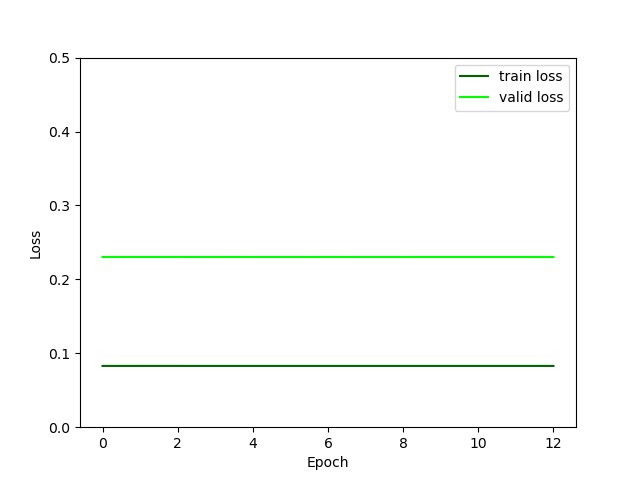
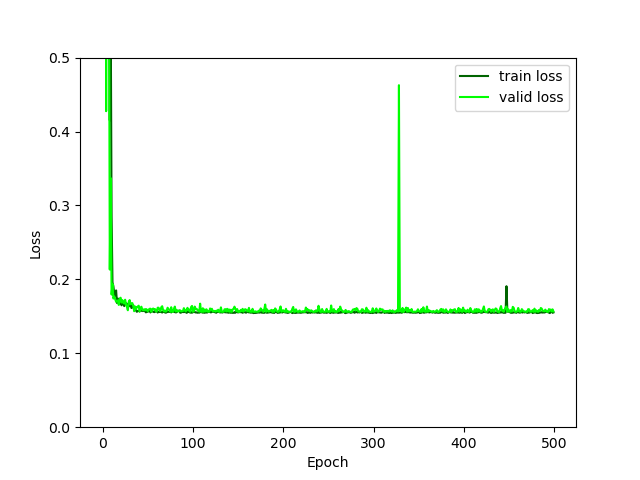
wooooorksgit add .git add .git add .

diff --git a/brainclip/model/network/brain_CLIP_model.py b/brainclip/model/network/brain_CLIP_model.py
@@ -17,7 +17,7 @@ class ImageEncoder(nn.Module):
         
         # freeze all layers except last one - Linear Probing
         for param in self.resnet3d.parameters():
-            param.requires_grad_(False)
+            param.requires_grad_(True)
         for param in self.resnet3d.fc.parameters():
             param.requires_grad_(True)   
 
@@ -137,9 +137,9 @@ class BrainCLIP(nn.Module):
         self.text_projection = ProjectionHead(
             embedding_dim=self.text_encoder.embedding_size,
             projection_dim=self.text_encoder.embedding_size)
-        #self.temperature = nn.Parameter(torch.tensor([0.07]), requires_grad=True) # 0.07 in paper
-        #self.parameter_list = nn.ParameterList([self.temperature])
-        self.temperature = 1
+        self.temperature = nn.Parameter(torch.tensor([0.07]), requires_grad=True) # 0.07 in paper
+        self.parameter_list = nn.ParameterList([self.temperature])
+        #self.temperature = 1 #0.07
 
     def cross_entropy(self, preds, targets, reduction='none'):
         log_softmax = nn.LogSoftmax(dim=-1)
@@ -157,9 +157,11 @@ class BrainCLIP(nn.Module):
         targets = F.softmax(
             (images_similarity + texts_similarity) / 2 * self.temperature, dim=-1
         )
+
         texts_loss = self.cross_entropy(logits, targets, reduction='none')
         images_loss = self.cross_entropy(logits.T, targets.T, reduction='none')
-        loss =  (images_loss + texts_loss) / 2.0 # shape: (batch_size)
+
+        loss =  (images_loss*0.9 + texts_loss*0.1) / 2.0 # shape: (batch_size)
         return loss.mean()
 
     def forward(self, image, input_id_report, attention_mask_report):
@@ -176,8 +178,6 @@ class BrainCLIP(nn.Module):
         #text_embedding = F.pad(text_embedding, (max_size - text_embedding.size(1), 0, 0, 0), value=0)
 
         # L2 normalization
-        image_embedding = F.normalize(image_embedding, p=2, dim=1)
-        text_embedding = F.normalize(text_embedding, p=2, dim=1)
 
         # Calculating the Loss
         ctrs_loss = self.contrastive_loss(image_embedding, text_embedding)
@@ -205,16 +205,12 @@ class BrainCLIPClassifier(nn.Module):
         self.conv = nn.Conv1d(2, 8, kernel_size=5)
         self.pool = nn.MaxPool1d(kernel_size=2)
         self.fc = nn.Linear(8 * 98, num_classes)
-
-    def correct_prediction(self, ground_truth, predictions):
-        predictions = [torch.argmax(p) for p in predictions]
-        ground_truth = [torch.argmax(p) for p in ground_truth]
-        return [(gt==p).item() for gt,p in zip(ground_truth,predictions)]
+        self.softmax = nn.Softmax(dim=0)
 
 
     def classification_loss(self, cls_output, label):
-        ce_loss = nn.CrossEntropyLoss()
-        return ce_loss(cls_output, label)
+        loss = nn.CrossEntropyLoss()
+        return loss(cls_output, label)
 
     def forward(self, image, input_id_report, attention_mask_report, label):
         # extract features
@@ -234,8 +230,7 @@ class BrainCLIPClassifier(nn.Module):
         x = x.view(-1, 8 * 98)
 
         logits = self.fc(x)
-        softmax = nn.functional.softmax(logits, dim=1)
-        cls_loss = self.classification_loss(logits, label)
-
+        softmax = self.softmax(logits)
+        
         if self.inference: return softmax
-        else: return cls_loss
+        else: return self.classification_loss(logits, label)

diff --git a/brainclip/model/network/loops.py b/brainclip/model/network/loops.py
@@ -9,20 +9,35 @@ from torch.optim.lr_scheduler import MultiStepLR
 
 device = get_device()
 
-train_loader = BrainCLIPDataLoader("train", batch_size=64)
-val_loader = BrainCLIPDataLoader("valid", batch_size=64)
+train_loader = BrainCLIPDataLoader("train", batch_size=2)
+val_loader = BrainCLIPDataLoader("valid", batch_size=2)
 
 image_encoder, text_encoder = ImageEncoder(), TextEncoder()
 model = BrainCLIP(image_encoder, text_encoder).to(device) # infarct, normal, others
 
-num_epochs = 200
+num_epochs = 500
 train_losses = []
 val_losses = []
 
 optimizer = Adam(model.parameters(), lr=0.01)
+
+# batch size 8, epochs=200, trloss: 0.17, val_loss: 0.18
 scheduler = MultiStepLR(optimizer, 
-                        milestones=[50], # List of epoch indices
-                        gamma = 0.5) # Multiplicative factor of learning rate decay
+                        milestones=[10,20,30,40,50,60,70], 
+                        gamma = 0.1) 
+
+scheduler = MultiStepLR(optimizer, 
+                        milestones=[10,20,30,40], # List of epoch indices
+                        gamma = 0.1) # Multiplicative factor of learning rate decay
+
+from torch.optim.lr_scheduler import CyclicLR
+
+scheduler = CyclicLR(optimizer, 
+                     base_lr = 1e-8, # Initial learning rate which is the lower boundary in the cycle for each parameter group
+                     max_lr = 1e-1, # Upper learning rate boundaries in the cycle for each parameter group
+                     step_size_up = 12, # Number of training iterations in the increasing half of a cycle
+                     mode = "triangular2",
+                     cycle_momentum=False)
 
 for epoch in range(num_epochs):
     epoch_loss = 0.0
@@ -31,6 +46,7 @@ for epoch in range(num_epochs):
         optimizer.zero_grad()
 
         loss = model(images, input_id_report, attention_mask_report)
+        #print(loss)
         epoch_loss += loss.item()
 
         loss.backward()
@@ -51,7 +67,7 @@ for epoch in range(num_epochs):
         val_loss /= len(val_loader)
         val_losses.append(val_loss)
     
-    print(f"Epoch {epoch + 1} loss: {epoch_loss:.4f}, val_loss: {val_loss:.4f}, temperature: {model.temperature:.4f}, lr: {optimizer.param_groups[0]['lr']}") 
+    print(f"Epoch {epoch + 1} loss: {epoch_loss:.4f}, val_loss: {val_loss:.4f}, temperature: {model.temperature.item():.4f}, lr: {optimizer.param_groups[0]['lr']}") 
     
     update_png(train_losses, val_losses, "brainclip")
 

diff --git a/brainclip/model/inference/predict_class.py b/brainclip/model/inference/predict_class.py
@@ -12,7 +12,7 @@ device = get_device()
 brainclip_model = BrainCLIP(ImageEncoder(), TextEncoder()).to(device) 
 brainclip_model = load_BrainCLIP(device, final_model_path, brainclip_model)
 
-model = BrainCLIPClassifier(brainclip_model, 5, inference=True).to(device)
+model = BrainCLIPClassifier(brainclip_model, 2, inference=True).to(device)
 
 test_loader = BrainCLIPDataLoader("test", batch_size=3)
 
@@ -24,9 +24,12 @@ for images, input_id_report, attention_mask_report, labels, _ in test_loader:
         output = model(*data)
         predictions.append(output.argmax(dim=1).cpu().numpy())
         ground_truth.append(labels.argmax(dim=1).cpu().numpy())
+        #predictions.append(output.cpu().numpy())
+        #ground_truth.append(labels.cpu().numpy())
 
-predictions = np.concatenate(predictions)
-ground_truth = np.concatenate(ground_truth)
+predictions = np.concatenate(predictions).flatten()
+ground_truth = np.concatenate(ground_truth).flatten()
+
 
 accuracy = (predictions == ground_truth).mean()
 print(f"GT:{ground_truth}, \nP: {predictions}")

diff --git a/brainclip/model/network/classification.py b/brainclip/model/network/classification.py
@@ -10,13 +10,13 @@ device = get_device()
 brainclip_model = BrainCLIP(ImageEncoder(), TextEncoder()).to(device) # infarct, normal, others
 brainclip_model = load_BrainCLIP(device, final_model_path, brainclip_model)
 
-model = BrainCLIPClassifier(brainclip_model, 5).to(device)
+model = BrainCLIPClassifier(brainclip_model, 2).to(device)
 
 train_loader = BrainCLIPDataLoader("train", batch_size=3)
 val_loader = BrainCLIPDataLoader("valid", batch_size=3)
 
 
-learning_rate = 0.001
+learning_rate = 0.01
 optimizer = Adam(model.parameters(), lr=learning_rate)
 
 num_epochs = 15

diff --git a/brainclip/model/utils/processing.py b/brainclip/model/utils/processing.py
@@ -50,8 +50,9 @@ def tokenize(text_batch):
 
 def one_hot_encoding(labels):
     al = len(labels)
-    if al == 2: encoding = [torch.Tensor([1.]), torch.Tensor([0.])]
-    else: encoding = F.one_hot(torch.arange(0, al), num_classes=al).float()
+    #if al == 2: encoding = [torch.Tensor([1.]), torch.Tensor([0.])]
+    #else: 
+    encoding = F.one_hot(torch.arange(0, al), num_classes=al).float()
     return {l:e for l,e in zip(labels,encoding)}
 
 

diff --git a/brainclip/model/inference/find_match.py b/brainclip/model/inference/find_match.py
@@ -84,7 +84,7 @@ print("\n\n\n")
 
 find_matches(brainclip_model, 
              device,
-             query="Normal",
+             query="Infarct",
              n=3
              )
 
